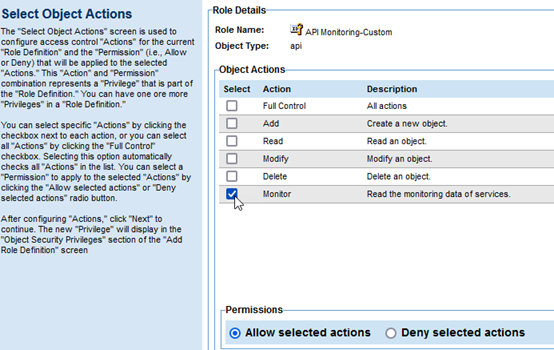
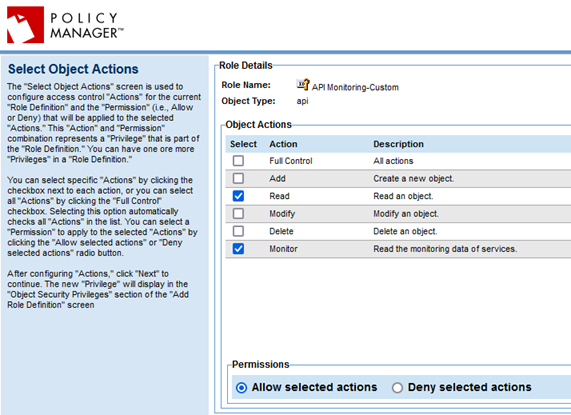
ATMO-39346_PM_Analytics_Tab_Access_to_Users

diff --git a/ag/security_admin/roles.htm b/ag/security_admin/roles.htm
@@ -371,16 +371,15 @@ nav-title: Roles
 
 
 <h2 id="uc_roles_monitor_only">Use case: creating a custom role with only Monitor permission</h2>
-<p>You might want to create a custom role so that certain users can have <strong>Monitor</strong> permission, to view an API's analytics information in the Community Manager developer portal, without those users being able to view the full API information.</p>
-<p>By default, when you add <strong>Monitor</strong> permission, the system automatically adds <strong>Read</strong> permission so that users can view the API. In most cases, <strong>Read</strong> is the lowest level of access and <strong>Monitor</strong> is one step up from that. However, if you want to create a scenario where users with <strong>Monitor</strong> permission can only view API analytics, and cannot see other information about the API, you can do that. For example, you might want to manage view permission via Private API groups, or you might have personnel dedicated only to viewing analytics information.</p>
-<p>To create a custom role that has <strong>Monitor</strong> permission but does <strong>not</strong> have <strong>View</strong> permission, follow the procedures below:</p>
+<p>You might want to create a custom role so that certain users can have <strong>Monitor</strong> permission, to view an API's analytics information in the Community Manager developer portal, without those users being able to view and modify private APIs unless invited.</p>
+<p>By default, when you add <strong>Monitor</strong> permission, the system automatically adds <strong>Read</strong> permission so that users can view APIs. In most cases, <strong>Read</strong> is the lowest level of access and <strong>Monitor</strong> is one step up from that. However, if you want to create a scenario where users with <strong>Monitor</strong> permission can only view API analytics, and cannot view private APIs, you can do that. For example, you might want to manage view permission via Private API groups, or you might have personnel dedicated only to viewing analytics information.</p>
+<p>To create and assign a custom role with only <strong>Monitor</strong> permission allowed, follow the procedures below:</p>
 <ol>
-	<li>Create the custom role with Monitor permission, which will also have View permission: <a href="#proc_roles_custom_monitor">To create a custom role with Monitor permission</a></li>
-	<li>Remove View permission: <a href="#proc_roles_remove_permission">To remove View permission from the custom role</a></li>
+	<li>Create the custom role: <a href="#proc_roles_custom_monitor">To create a custom role with only Monitor permission</a></li>
 	<li>Assign the new role to a user: <a href="#proc_custom_role_assign_to_user">To assign the new custom role to a specific user</a></li>
 </ol>
 
-<h4 id="proc_roles_custom_monitor">To create a custom role with Monitor permission</h4>
+<h4 id="proc_roles_custom_monitor">To create a custom role with only Monitor permission</h4>
 <ol>
 	<li>Log in to the Policy Manager Management Console as the Administrator.</li>
 	<li>Click the <strong>Workbench</strong> tab and then, on the left, click <strong>Registry</strong>.</li>
@@ -400,44 +399,36 @@ nav-title: Roles
 	</li>
 	<li>On the <strong>Select Object Actions</strong> page, specify the following, as shown below:
 		<ul>
-			<li>Object Actions: Choose <strong>Monitor</strong>.</li>
+			<li>Object Actions: Choose <strong>Read</strong> and <strong>Monitor</strong>.</li>
 			<li>Permissions: Leave the default, which is <strong>Allow selected actions</strong>.</li>
 		</ul>
 		<p><img src="images/pm_role_add_privilege_select_object_actions.png" alt="Adding a privilege to a role: Select Object Actions page" /></p>
 	</li>
 	<li>Click <strong>Next</strong>.</li>
-	<li>Click <strong>Add Privilege</strong> again, choose the <strong>apiversion</strong> object type, and click <strong>Next</strong>.</li>
+	<li>Click <strong>Add Privilege</strong> again. Choose the <strong>apiversion</strong> object type, and click <strong>Next</strong>.</li>
 	<li>Assign the same permissions as you did for the <strong>api</strong> object type in Step 8, and click <strong>Next</strong>.</li>
-	<li>Review the changes on the <strong>Modify Role Definition</strong> page, and then click <strong>Finish</strong>.</li>
-</ol>
-<p>At this point, since the default behavior is to allow users with <strong>Monitor</strong> permission to view the API, <strong>View</strong> permission is automatically added. The next step is to remove <strong>View</strong> permission. Follow the steps in <a href="#proc_roles_remove_permission">To remove View permission from the custom role</a> below.</p>
-
-<h4 id="proc_roles_remove_permission">To remove View permission from the custom role</h4>
-<p>This procedure follows on from <a href="#proc_roles_custom_monitor">To create a custom role with Monitor permission</a> above.</p>
-<ol>
-	<li>On the security summary page, find the new role that you just created. In this example: <strong>API Monitoring-Custom</strong>.</li>
-	<li>On the right, click the <strong>Modify</strong> button. The <strong>Modify Role Definition</strong> page appears, as shown below. For the first object type specified, <strong>api</strong>, the permissions <strong>Read</strong> and <strong>Monitor</strong> are listed as <strong>allow</strong>. Click <strong>Modify</strong>.
-		<p><img src="images/pm_role_modify_role_definition.png" alt="Roles: Modify Role Definition page" /></p>
+	<li>Click <strong>Add Privilege</strong> again. Choose the <strong>api</strong> object type, and click <strong>Next</strong>.</li>
+	<li>On the <strong>Select Object Actions</strong> page, specify the following:
+		<ul>
+			<li>Object Actions: Choose <strong>Read</strong>.</li>
+			<li>Permissions: Choose <strong>Deny selected actions</strong>.</li>
+		</ul>
+		<p><img src="images/pm_role_modify_role_definition_read_deny.png" alt="Roles: Role Details, removing Monitor permission" /></p>
 	</li>
-	<li>{<span class="apidoc_red">query do we actually have to add monitor permission for both api and also api version. If so, do we need to deny Read on both?</span>}</li>
-	<li>In the <strong>Select Object Actions</strong> page:
-		<ol>
-			<li>Remove the check for <strong>Monitor</strong>, so that only <strong>Read</strong> permission is selected.</li>
-			<li>Click <strong>Deny Selected Actions</strong>.</li>
-		</ol>
+	<li>Click <strong>Next</strong> to return to the <strong>Modify Role Definition</strong> page. The permissions should look something like the below.
+		<p><img src="images/pm_role_modify_role_definition_result.png" alt="Roles: Custom permissions after configuring" /></p>
 	</li>
-	<li>Click <strong>Next</strong>.</li>
-	<li>Repeat for the <strong>apiversion</strong> object.</li>
-	<li>When done, click <strong>Finish</strong>.</li>
+	<li>Click <strong>Finish</strong>.</li>
 </ol>
-<p>At this point, you've defined the behavior to allow <strong>Monitor</strong> permission and deny <strong>View</strong> permission. To put this custom role into use, assign it to a user. See <a href="#proc_custom_role_assign_to_user">To assign the new custom role to a user</a> below.</p>
+<p>At this point, you've defined a role that allows users to view and monitor APIs, but does not allow users to view private APIs unless they are invited.</p>
+<p>To put this custom role into use, assign it to a user. See <a href="#proc_custom_role_assign_to_user">To assign the new custom role to a user</a> below.</p>
 
 <h4 id="proc_custom_role_assign_to_user">To assign the new custom role to a user</h4>
 <p>In this procedure you are assigning the new custom role to a specific user, within the context of a specific API. See also: <a href="#role_assign">Assign a role to a user</a>.</p>
 <ol>
 	<li>Log in to the Policy Manager Management Console as the Administrator.</li>
 	<li>Click the <strong>Workbench</strong> tab and then, on the left, navigate to API Platform Tenants, then your tenant, then the API for which you want to grant monitoring-only access.</li>
-	<li>On the right, click the <strong>Security</strong> tab, find the custom role you created in <a href="#proc_roles_custom_monitor">To create a custom role with Monitor permission</a> above, and click the <strong>Manage Role</strong> button, as shown below.
+	<li>On the right, click the <strong>Security</strong> tab, find the custom role you created in <a href="#proc_roles_custom_monitor">To create a custom role with only Monitor permission</a> above, and click the <strong>Manage Role</strong> button, as shown below.
 		<p><img src="images/pm_role_assign_custom_role_to_user.png" alt="Roles: Assigning custom role to a user" /></p>
 	</li>
 	<li>In the <strong>Object Based Security Role</strong> page, use the search feature to locate the user. Click the username in the left pane and click the arrow icon (>>) to move the user to the right pane, to assign the role. For an illustration, see <a href="#s03_06_01">To grant System Administrator permission</a> (Step 5).</li>
